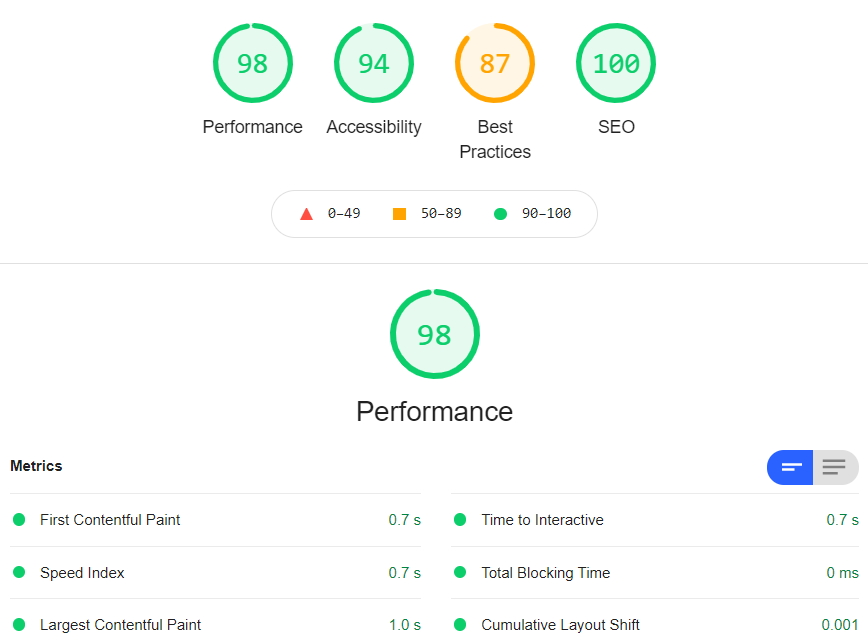
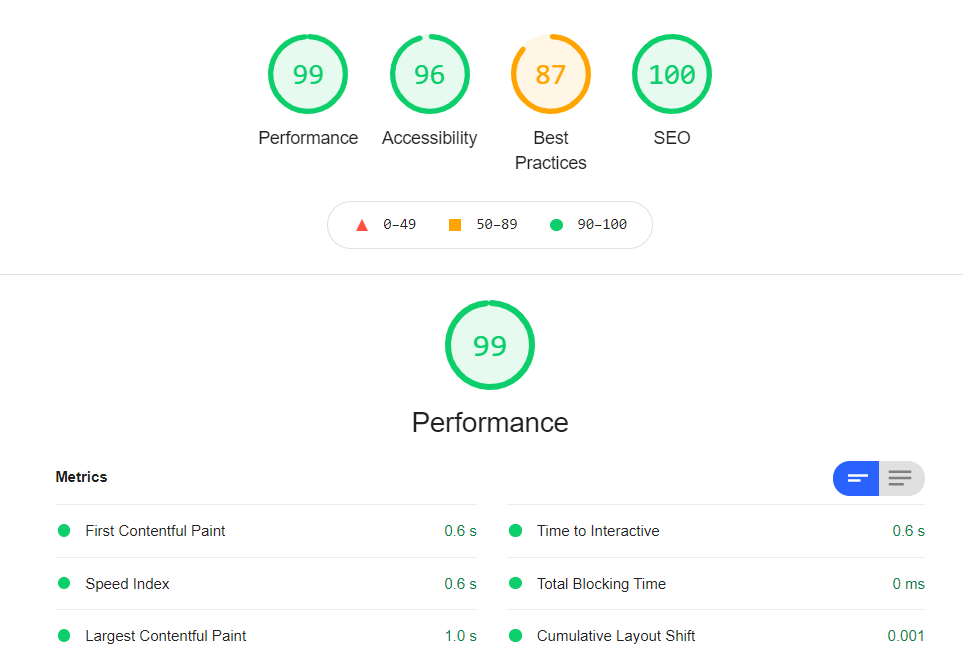
changed screenshots on documentation of retested screenshots in lighthouse testing

diff --git a/TESTING.md b/TESTING.md
@@ -286,25 +286,34 @@ Using DevTool's Lighthouse tester, I checked all pages on mobile and desktop to 
 
 (All tests were carried on the same way: I cleared cache data, opened new incognito page (Chrome and Edge), and loaded tested each page twice. Same procedure was used for every page for mobile and web)
 
-- Mobile
+- **Mobile**
 
   - Index.html Lighthouse test:
 
-    - [Before](docs/testing/lighthouse/index-phone-before) implementing changes: - The performance score was very low and in red. This was due to very big images and unused javascript libraries. To fix that I reduced all images with Tinypng and cropped them to make equal squares. I also changed two of the images as it was impossible to make them any lower on weight without pixelating them and they ended up not looking too good. I also changed the grid system so all pictures show on top of each other in mobile view. -[After](docs/testing/lighthouse/lighthouse-mobile-after-index) following lighthouse suggestions: - I managed to increase the very low performance score to 74%. Although this is not ideal, I found it very difficult to implement any more changes as this meant to add attributes to elements that made the validator fail. So I decided to leave the index at this level until I have more time for further changes and improvements.
+    - [Before](docs/testing/lighthouse/index-phone-before) implementing changes:
+      - The performance score was very low and in red. This was due to very big images and unused javascript libraries. To fix that I reduced all images with Tinypng and cropped them to make equal squares. I also changed two of the images as it was impossible to make them any lower on weight without pixelating them and they ended up not looking too good. I also changed the grid system so all pictures show on top of each other in mobile view.
+    - [After](docs/testing/lighthouse/index-phone-after) following lighthouse suggestions:
+      - I managed to increase the very low performance score to 82%. Although this is not ideal, I found it very difficult to implement any more changes as this meant to add attributes to elements that made the validator fail. So I decided to leave the index at this level until I have more time for further changes and improvements.
 
   - Services page Lighthouse test:
 
     - [Before](docs/testing/lighthouse/services.html-phone-before.png) implementing changes
       - as in the index page, the performance score was quite low because of the weight of the images
-    - [After](docs/testing/lighthouse/services.html-phone-after.png) following lighthouse suggestions:
-      - once I implemented the suggestions given by the lighthouse tool, the score increased to 84%. I decreased the size of the images and added meta data to the head for better SEO (%100)
+    - [After](docs/testing/lighthouse/services-phone-after.png) following lighthouse suggestions:
+      - once I implemented the suggestions given by the lighthouse tool, the score increased to 86%. I decreased the size of the images and added meta data to the head for better SEO (%100)
 
   - Contact page Lighthouse test:
     - [Before](docs/testing/lighthouse/contact.html-before-phone.png) implementing changes
     - [After](docs/testing/lighthouse/contact.html-phone-after.png) following lighthouse suggestions:
       - although the performance before was quite low, implementing lighthouse suggested changes increased the performance of the mobile test quite significantly, but we can see the biggest improvement in Best practices, where the score went up to 93%.
 
-- Web: because I focused on mobile first approach for the testing part too. All the improvements made to increase the performance on the mobile view, has greatly benefited the web performance too. This changes included compression of images, removal of unused code and css, reload of better sources for bootstrap/fontawesome libraries...
+  - Feedback page Lighthouse test:
+    - [Before] This feature was added at the very end of the project, when I noticed some issues as I was testing all the pages (see bugs for more info on error 501). Because of this, I forgot to take any screenshots of the lighthouse testing before.
+    - [After](docs/testing/lighthouse/lighthouse-feedback-after.png)
+
+- **Web**
+
+Because I focused on mobile first approach for the testing part too. All the improvements made to increase the performance on the mobile view, has greatly benefited the web performance too. This changes included compression of images, removal of unused code and css, reload of better sources for bootstrap/fontawesome libraries...
 
   - Index web page Lighthouse test:
 
@@ -323,6 +332,9 @@ Using DevTool's Lighthouse tester, I checked all pages on mobile and desktop to 
     - [After](docs/testing/lighthouse/contact.html-after-web.png) following lighthouse suggestions:
       - This has been the best results out of all the pages. This is due to the simplicity of the page, minimal structure and no heavy images to be loaded. Still, we can see an improvement after the changes lighthouse suggested.
 
+  - Feedback web page Lighthouse test:
+    - [Before] This feature was added at the very end of the project, when I noticed some issues as I was testing all the pages (see bugs for more info on error 501). Because of this, I forgot to take any screenshots of the lighthouse testing before.
+    - [After](docs/testing/lighthouse/feedback-after-lighthouse.png)
 ## BUGS
 
 1.  h1 font-size not reducing for big screens
